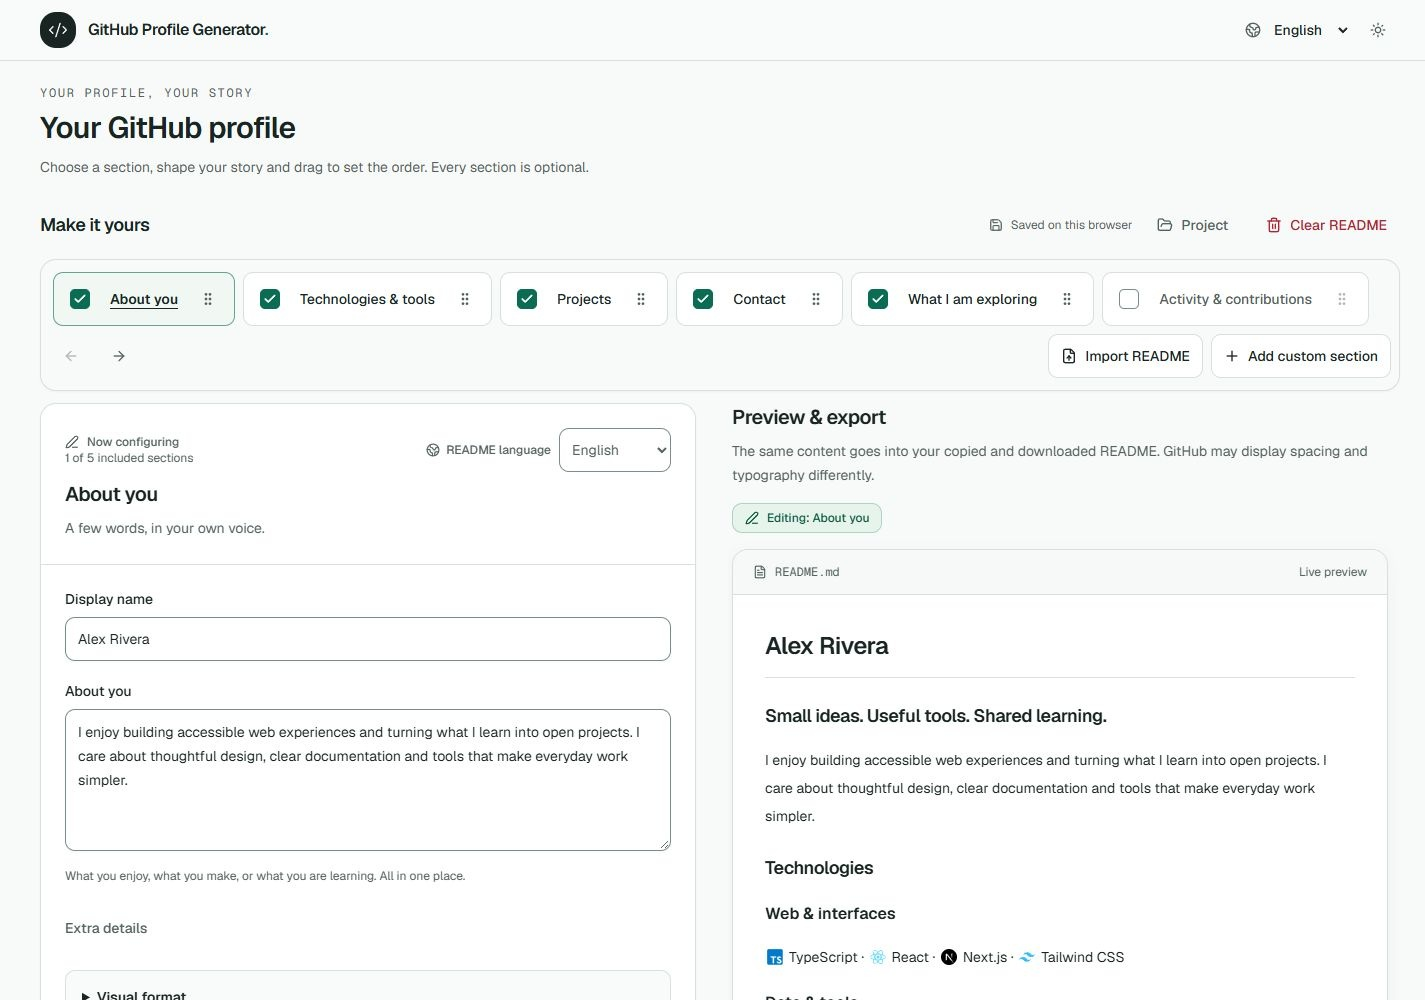
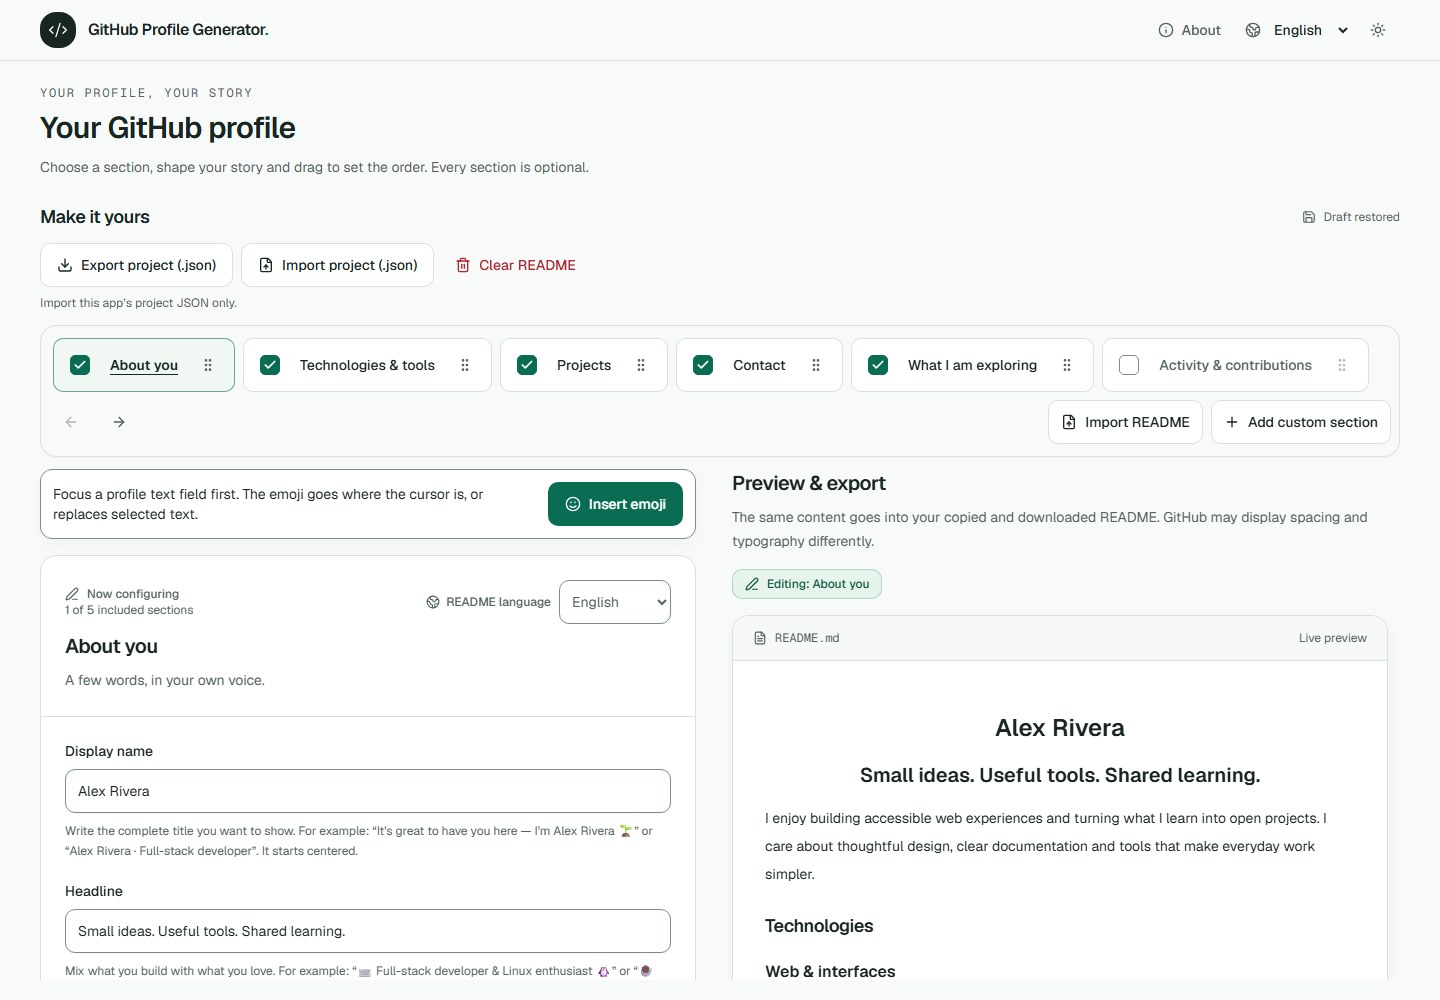
chore: prepare v1.0.0 release

diff --git a/src/features/about/about-page.tsx b/src/features/about/about-page.tsx
@@ -111,6 +111,8 @@ export async function AboutPage() {
                       <a
                         className="mt-7 inline-flex min-h-11 w-fit items-center gap-2 rounded-md font-medium text-accent underline-offset-4 hover:underline focus-visible:ring-2 focus-visible:ring-ring focus-visible:ring-offset-2"
                         href={contributingGuideUrl}
+                        target="_blank"
+                        rel="noopener noreferrer"
                       >
                         {t(`paths.${key}.action`)}
                         <ArrowRight className="size-4" aria-hidden="true" />
@@ -119,6 +121,8 @@ export async function AboutPage() {
                       <a
                         className="mt-7 inline-flex min-h-11 w-fit items-center gap-2 rounded-md font-medium text-accent underline-offset-4 hover:underline focus-visible:ring-2 focus-visible:ring-ring focus-visible:ring-offset-2"
                         href={`${repositoryUrl}${href === "issues" ? "/issues" : ""}`}
+                        target="_blank"
+                        rel="noopener noreferrer"
                       >
                         {t(`paths.${key}.action`)}
                         <ArrowRight className="size-4" aria-hidden="true" />
@@ -128,6 +132,8 @@ export async function AboutPage() {
                       <div className="mt-5 grid grid-cols-2 gap-2">
                         <a
                           href={`${repositoryUrl}/stargazers`}
+                          target="_blank"
+                          rel="noopener noreferrer"
                           className="flex min-h-12 min-w-0 items-center gap-2 rounded-lg border border-border bg-background/60 px-3 py-2 transition-colors hover:border-accent/40 hover:bg-accent-soft/40 focus-visible:ring-2 focus-visible:ring-ring focus-visible:ring-offset-2"
                         >
                           <Star className="size-4 shrink-0 text-accent" aria-hidden="true" />
@@ -147,6 +153,8 @@ export async function AboutPage() {
                         </a>
                         <a
                           href={`${repositoryUrl}/forks`}
+                          target="_blank"
+                          rel="noopener noreferrer"
                           className="flex min-h-12 min-w-0 items-center gap-2 rounded-lg border border-border bg-background/60 px-3 py-2 transition-colors hover:border-accent/40 hover:bg-accent-soft/40 focus-visible:ring-2 focus-visible:ring-ring focus-visible:ring-offset-2"
                         >
                           <GitFork className="size-4 shrink-0 text-accent" aria-hidden="true" />

diff --git a/src/components/site-footer.tsx b/src/components/site-footer.tsx
@@ -61,28 +61,50 @@ export async function SiteFooter() {
             </h2>
             <ul className="mt-3 space-y-1">
               <li>
-                <a href={repositoryUrl} className={footerLinkClassName}>
+                <a
+                  href={repositoryUrl}
+                  target="_blank"
+                  rel="noopener noreferrer"
+                  className={footerLinkClassName}
+                >
                   {t("repository")}
                 </a>
               </li>
               <li>
-                <a href={`${repositoryUrl}/issues`} className={footerLinkClassName}>
+                <a
+                  href={`${repositoryUrl}/issues`}
+                  target="_blank"
+                  rel="noopener noreferrer"
+                  className={footerLinkClassName}
+                >
                   {t("issues")}
                 </a>
               </li>
               <li>
-                <a href={contributingGuideUrl} className={footerLinkClassName}>
+                <a
+                  href={contributingGuideUrl}
+                  target="_blank"
+                  rel="noopener noreferrer"
+                  className={footerLinkClassName}
+                >
                   {t("contributing")}
                 </a>
               </li>
               <li>
-                <a href={`${defaultBranchUrl}/LICENSE`} className={footerLinkClassName}>
+                <a
+                  href={`${defaultBranchUrl}/LICENSE`}
+                  target="_blank"
+                  rel="noopener noreferrer"
+                  className={footerLinkClassName}
+                >
                   {t("license")}
                 </a>
               </li>
               <li>
                 <a
                   href={`${defaultBranchUrl}/THIRD_PARTY_NOTICES.md`}
+                  target="_blank"
+                  rel="noopener noreferrer"
                   className={footerLinkClassName}
                 >
                   {t("notices")}
@@ -98,6 +120,8 @@ export async function SiteFooter() {
             {t("openSource")}{" "}
             <a
               href={`${defaultBranchUrl}/LICENSE`}
+              target="_blank"
+              rel="noopener noreferrer"
               className="font-medium text-foreground underline decoration-border underline-offset-4 hover:decoration-foreground"
             >
               {t("license")}

diff --git a/src/app/[locale]/privacy/page.tsx b/src/app/[locale]/privacy/page.tsx
@@ -77,6 +77,8 @@ export default async function PrivacyPage({ params }: PrivacyPageProps) {
                 <a
                   className="underline underline-offset-4"
                   href="https://github.com/juanNH/ReadmeGenerator"
+                  target="_blank"
+                  rel="noopener noreferrer"
                 >
                   {t("links.repository")}
                 </a>
@@ -85,6 +87,8 @@ export default async function PrivacyPage({ params }: PrivacyPageProps) {
                 <a
                   className="underline underline-offset-4"
                   href="https://github.com/juanNH/ReadmeGenerator/issues"
+                  target="_blank"
+                  rel="noopener noreferrer"
                 >
                   {t("links.issues")}
                 </a>
@@ -93,6 +97,8 @@ export default async function PrivacyPage({ params }: PrivacyPageProps) {
                 <a
                   className="underline underline-offset-4"
                   href="https://github.com/juanNH/ReadmeGenerator/blob/dev/CONTRIBUTING.md"
+                  target="_blank"
+                  rel="noopener noreferrer"
                 >
                   {t("links.contributing")}
                 </a>
@@ -101,6 +107,8 @@ export default async function PrivacyPage({ params }: PrivacyPageProps) {
                 <a
                   className="underline underline-offset-4"
                   href="https://github.com/juanNH/ReadmeGenerator/blob/main/LICENSE"
+                  target="_blank"
+                  rel="noopener noreferrer"
                 >
                   {t("links.license")}
                 </a>
@@ -109,6 +117,8 @@ export default async function PrivacyPage({ params }: PrivacyPageProps) {
                 <a
                   className="underline underline-offset-4"
                   href="https://github.com/juanNH/ReadmeGenerator/blob/main/THIRD_PARTY_NOTICES.md"
+                  target="_blank"
+                  rel="noopener noreferrer"
                 >
                   {t("links.notices")}
                 </a>

diff --git a/src/modules/contributions/contributions-form.tsx b/src/modules/contributions/contributions-form.tsx
@@ -279,6 +279,8 @@ export function ContributionsForm({
                     project: (chunks) => (
                       <a
                         href="https://github.com/stats-organization/github-stats-extended"
+                        target="_blank"
+                        rel="noopener noreferrer"
                         className="rounded-sm text-accent underline underline-offset-4 focus-visible:outline-2 focus-visible:outline-offset-4 focus-visible:outline-ring"
                       >
                         {chunks}
@@ -456,6 +458,8 @@ export function ContributionsForm({
                     <div className="min-w-0 space-y-1">
                       <a
                         href={item.url}
+                        target="_blank"
+                        rel="noopener noreferrer"
                         className="block text-sm font-medium [overflow-wrap:anywhere] text-accent underline-offset-4 hover:underline"
                       >
                         {item.title || item.url}

diff --git a/README.md b/README.md
@@ -8,9 +8,9 @@ Introduce yourself, share your tools and show what you build. Choose your sectio
 
 [How it works](#how-it-works) · [Save and continue later](#save-and-continue-later) · [Run locally](#run-locally) · [Documentation](#documentation) · [Contribute](CONTRIBUTING.md)
 
-![English editor showing the introduction for a fictional profile named Alex Rivera on the left and a live README preview with technologies on the right.](docs/assets/editor-overview.jpg)
+![Current English desktop editor with optional profile sections, project controls, custom content, and a live README preview for fictional profile Alex Rivera.](docs/assets/editor-overview.jpg)
 
-_A real editor screenshot with a fictional profile. Open the [example project](docs/examples/demo-profile.project.json) with **Import project (.json)** to explore it._
+_Current editor screenshot with fictional data. Open the [example project](docs/examples/demo-profile.project.json) with **Import project (.json)** to explore it._
 
 ## What you can create
 
@@ -26,15 +26,6 @@ A short profile can tell a story. Every section is optional: start with a few wo
 | **Public activity, if you choose it** | Ten optional card types with themes and colors; they require the configuration described [below](#optional-activity-and-cards).    |
 
 Reorder sections by dragging, using the keyboard or pressing the arrow buttons. Hide a section while keeping its content. On desktop, editing and preview appear side by side; on smaller screens, switch between them. Light and dark themes are available.
-
-<details>
-<summary>Watch an animated editor tour</summary>
-
-![English editor tour showing the introduction, technology selection and options to save and open a JSON project for a fictional profile.](docs/assets/editor-tour.gif)
-
-The animation shows real editor states using the same fictional profile. It predates the current project import dialog; **Export project (.json)** and **Import project (.json)** now appear in the editor header. The screenshot above offers a still view without opening the animation.
-
-</details>
 
 ## How it works
 
@@ -57,6 +48,10 @@ The app prepares the file; you decide when to publish it. GitHub applies its own
 2. When you return, choose **Import project (.json)** beside it, then select that `.json` file in the dialog.
 3. Review the summary and confirm replacement of the open profile. The app first tries to save a recovery copy of your previous profile.
 
+![Current project import dialog showing local file selection and the review-before-replacement safeguards.](docs/assets/project-files.jpg)
+
+_Project files stay on your device. The dialog explains the supported JSON format and keeps the current profile unchanged until you confirm._
+
 On mobile, the same buttons read **Export JSON** and **Import JSON**. Import accepts only JSON files with this generator’s project structure; generic JSON and GitHub profile or API exports are not compatible.
 
 The project keeps your text, order, categories, formatting and hidden content. You can also save unfinished work, even when the README still needs corrections. Opening a project replaces the whole profile after confirmation; it does not merge two projects. Local files up to **4 MiB** are processed on your device.
@@ -68,6 +63,10 @@ Want to try it first? Download the [example project](docs/examples/demo-profile.
 ## Start with an existing README
 
 Use **Import README** to paste Markdown or open a `.md` file. The editor analyzes it and proposes custom sections that you can review and exclude before confirming.
+
+![README import review showing detected sections and conversion notices before the profile is replaced.](docs/assets/readme-import-review.jpg)
+
+_The review is text-only: images remain unloaded, and nothing replaces your profile until you confirm._
 
 The conversion reports formatting changes and content that needs attention; it does not automatically reconstruct the original fields of a JSON project. Before replacing the profile, the app tries to save both the previous profile and the original Markdown. Images and cards remain inactive during review.
 
@@ -140,6 +139,7 @@ Deploy with a PAT and without sign-in: [Vercel Hobby, main/dev, and card checks]
 | Configure queries and publish cards               | [GitHub API and hosting](docs/github-api-and-hosting.md)                      |
 | Understand the architecture and data format       | [Architecture](docs/architecture.md) · [Profile model](docs/profile-model.md) |
 | Explore the other guides and decisions            | [Documentation index](docs/README.md)                                         |
+| Review the release history                        | [Changelog](CHANGELOG.md)                                                     |
 
 ## License
 

diff --git a/docs/assets/README.md b/docs/assets/README.md
@@ -1,22 +1,21 @@
 # Documentation visuals
 
-These assets show the real GitHub Profile Generator interface. They were captured in English on October 20, 2026, using the light theme and fictional data from the [demo project](../examples/demo-profile.project.json). They contain no credentials, real account data or activity queries.
+These assets show the current GitHub Profile Generator interface. They were captured in English on October 23, 2026, using the light theme and fictional data from the [demo project](../examples/demo-profile.project.json). They contain no credentials, real account data or activity queries.
 
-| Asset                                      | Content                                                                                              |
-| ------------------------------------------ | ---------------------------------------------------------------------------------------------------- |
-| [editor-overview.jpg](editor-overview.jpg) | The editor alongside a profile preview with technologies.                                            |
-| [project-files.jpg](project-files.jpg)     | Earlier capture of the project file controls and local review flow.                                  |
-| [editor-tour.gif](editor-tour.gif)         | Earlier capture of four states, including the former Project panel before the current import dialog. |
+| Asset                                                | Content                                                                                        |
+| ---------------------------------------------------- | ---------------------------------------------------------------------------------------------- |
+| [editor-overview.jpg](editor-overview.jpg)           | The current desktop editor, optional profile sections, custom content and live README preview. |
+| [project-files.jpg](project-files.jpg)               | The current project JSON import dialog and its local review safeguards.                        |
+| [readme-import-review.jpg](readme-import-review.jpg) | Detected Markdown sections and conversion notices before confirming an import.                 |
 
-The animation lasts 9.8 seconds and is smaller than 500 KiB. The main README keeps it in a collapsible section, with static screenshots and written instructions available without opening it. It is a sequence of captured states, not a continuous recording or a simulated interface.
+The main README uses static screenshots and written instructions so the product flow stays available without animation.
 
 ## Updating the screenshots
 
-1. Start the application and open `/en/editor` in a browser or demonstration origin without personal data. Preserve any existing draft before replacing it.
-2. Open the demo through **Import project (.json)**, choose the file in the dialog, review it and confirm.
-3. Use a desktop viewport that shows both the editor and preview, the light theme and normal zoom. Hide the development indicator through its preferences without changing product code.
-4. Capture the visible controls and result. For project files, capture the import dialog and review step. Crop only unnecessary margins or surrounding context; do not alter text or controls.
-5. When updating the GIF, use states from the same workflow, consistent colors and transitions without flashes. Keep the static screenshots and inspect every frame before replacing the asset.
-6. Check alternative text, relative paths, legibility and file sizes in the [root README](../../README.md).
+1. Start the application and open `/en/editor` in an isolated browser context with no personal data or saved draft. Load the [demo project](../examples/demo-profile.project.json) there.
+2. Use a desktop viewport that shows both the editor and preview, the light theme and normal zoom. Hide the development overlay in the isolated capture context without changing product components or controls.
+3. Capture the current editor, the project JSON import dialog and the README import review. For the import review, use fictional Markdown and stop before confirmation.
+4. Keep images and activity cards inactive. Do not show credentials, real accounts or private data.
+5. Crop only unnecessary margins or surrounding context; do not alter text or controls. Check alternative text, relative paths, legibility and file sizes in the [root README](../../README.md).
 
 Visible icons retain the attributions listed in [third-party notices](../../THIRD_PARTY_NOTICES.md). Assets are stored in the repository so relative links work across branches and copies of the project.

diff --git a/CHANGELOG.md b/CHANGELOG.md
@@ -1,0 +1,22 @@
+# Changelog
+
+This project follows [Semantic Versioning](https://semver.org/). Release tags use the `v` prefix; the application version is recorded in `package.json`.
+
+## [1.0.0] - 2026-10-23
+
+First stable source release of GitHub Profile Generator.
+
+### Added
+
+- A bilingual English and Spanish editor for optional profile sections, custom content, technology catalogs, project links, and contributions.
+- A live README preview with matching copy and download output, plus local browser drafts.
+- JSON project import and export, README Markdown import with review and recovery backups, and profile recovery guidance.
+- Ten optional public activity card types, including locally rendered cards adapted from GitHub Stats Extended.
+- A manual workflow that needs no account or credentials. GitHub activity lookup is optional and requires server-side configuration.
+- Public product, privacy, contributor, architecture, development, and deployment documentation.
+
+### Distribution
+
+- This release is distributed as source through GitHub. The application deploys as a Next.js web app; it is not published to the npm registry (`private` remains `true`).
+- Production and pre-production branch roles, deployment requirements, and post-deployment card checks are documented in [the Vercel guide](docs/vercel-deployment.md).
+- Third-party notices and platform-specific license review are documented in [the open-source guide](docs/open-source.md). No standalone binary, container, or npm package is included.
